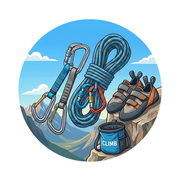
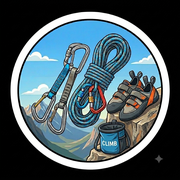
Icono nuevo + auto-sync MVC suspensiones a Tindeq 25mm

diff --git a/src/App.jsx b/src/App.jsx
@@ -89,7 +89,7 @@ export default function App(){
       {page==='cal'&&<CalP data={cal} save={d=>s('ct5_cal',d,setCal)} llocs={llocs}/>}
       {page==='ent'&&<EntP data={ent} save={d=>s('ct5_ent',d,setEnt)} allEx={allExercises}/>}
       {page==='roca'&&<RocP data={roca} save={d=>s('ct5_roca',d,setRoca)} sects={sects} vias={vias} lib={lib} saveLib={d=>s('ct5_lib',d,setLib)}/>}
-      {page==='susp'&&<SuspP data={susp} save={d=>s('ct5_susp',d,setSusp)} t25={t25} cal={cal} ent={ent} allEx={allExercises}/>}
+      {page==='susp'&&<SuspP data={susp} save={d=>s('ct5_susp',d,setSusp)} t25={t25} st25={d=>s('ct5_t25',d,setT25)} cal={cal} ent={ent} allEx={allExercises}/>}
       {page==='cfw'&&<CFWP data={cfw} save={d=>s('ct5_cfw',d,setCfw)} tp={tp}/>}
       {page==='lib'&&<LibP data={lib} save={d=>s('ct5_lib',d,setLib)} sects={sects}/>}
       {page==='tindeq'&&<TqP t25={t25} treg={treg} st25={d=>s('ct5_t25',d,setT25)} streg={d=>s('ct5_treg',d,setTreg)}/>}
@@ -183,13 +183,13 @@ function Dash({cal,ent,roca,lib,dp,t25,treg,tp,susp}){
 }
 
 /* ───────── SUSPENSIONES BERGUA ───────── */
-function SuspP({data,save,t25,cal,ent,allEx}){
+function SuspP({data,save,t25,st25,cal,ent,allEx}){
   const[show,setShow]=useState(false);const[eid,setEid]=useState(null);
   const mvcL=useMemo(()=>lastMVC(t25,'esq'),[t25]);
   const mvcR=useMemo(()=>lastMVC(t25,'dre'),[t25]);
   const blank=()=>({fecha:td(),edge:25,intensidad:75,series_prog:8,reps:4,work:8,pause:2,
     mvc_l:mvcL?mvcL.value:'',mvc_r:mvcR?mvcR.value:'',
-    series_data:[],hr_avg:'',calorias:'',fatiga_ini:1,fatiga_fin:3,obs:''});
+    series_data:[],hr_avg:'',calorias:'',fatiga_ini:1,fatiga_fin:3,obs:'',syncTindeq:true});
   const[form,setForm]=useState(blank());
   const sorted=useMemo(()=>[...data].sort((a,b)=>(b.fecha||'').localeCompare(a.fecha||'')),[data]);
   const tgtL=targetLoad(Number(form.mvc_l),Number(form.intensidad));
@@ -204,7 +204,9 @@ function SuspP({data,save,t25,cal,ent,allEx}){
   useEffect(()=>{ensureSeries()},[form.series_prog]);
   const toggleSet=i=>{const sd=[...form.series_data];sd[i]={...sd[i],done:!sd[i].done};setForm({...form,series_data:sd})};
   const setPeak=(i,v)=>{const sd=[...form.series_data];sd[i]={...sd[i],peak:v};setForm({...form,series_data:sd})};
-  const sub=()=>{const e={...form,completed,loss};if(eid)save(data.map(r=>r.id===eid?{...e,id:eid}:r));else save([...data,{...e,id:xi()}]);setShow(false);setEid(null);setForm(blank())};
+  const sub=()=>{const e={...form,completed,loss};if(eid)save(data.map(r=>r.id===eid?{...e,id:eid}:r));else save([...data,{...e,id:xi()}]);
+    if(form.syncTindeq&&form.mvc_l&&form.mvc_r&&st25){const exists=t25.some(r=>r.fecha===form.fecha);if(!exists){st25([...t25,{fecha:form.fecha,mm:25,esq:Number(form.mvc_l),dre:Number(form.mvc_r),id:xi(),src:'susp'}])}}
+    setShow(false);setEid(null);setForm(blank())};
   const open=()=>{setEid(null);setForm(blank());setShow(true)};
   const edit=r=>{setForm({...blank(),...r,series_data:r.series_data||[]});setEid(r.id);setShow(true)};
 
@@ -226,6 +228,7 @@ function SuspP({data,save,t25,cal,ent,allEx}){
           {mvcR&&<span className={`mvc-age ${mvcR.daysOld>7?'stale':''}`}>{mvcR.daysOld}d</span>}
         </div>
         {((mvcL&&mvcL.daysOld>7)||(mvcR&&mvcR.daysOld>7))&&<div className="mvc-warn">⚠ MVC con más de 7 días. Mide en el Tindeq antes de empezar.</div>}
+        <label className="sync-toggle"><input type="checkbox" checked={!!form.syncTindeq} onChange={e=>setForm({...form,syncTindeq:e.target.checked})}/> Guardar este MVC también como test 25mm en Tindeq</label>
       </div>
 
       <div className="row-2"><F label="Edge (mm)" value={form.edge} onChange={v=>setForm({...form,edge:v})} type="number"/><F label="Intensidad %" value={form.intensidad} onChange={v=>setForm({...form,intensidad:v})} type="number"/></div>

diff --git a/src/styles.js b/src/styles.js
@@ -89,5 +89,6 @@ export const CSS=`@import url('https://fonts.googleapis.com/css2?family=DM+Sans:
 .cfw-n{font-size:10px;color:#6B5F52;min-width:18px;text-align:center}
 .cfw-result{display:flex;gap:10px;margin:12px 0;background:#E8A83812;border:1px solid #E8A83844;border-radius:10px;padding:12px}
 .cfw-result>div{flex:1;text-align:center}.cfw-rl{display:block;font-size:10px;color:#8B7D6B;text-transform:uppercase}.cfw-rv{font-size:16px;font-weight:700;color:#E8A838}
+.sync-toggle{display:flex;align-items:center;gap:8px;font-size:12px;color:#8B7D6B;margin-top:10px;cursor:pointer}.sync-toggle input{width:18px;height:18px;accent-color:#E8A838}
 @media(min-width:600px){.stat-grid{grid-template-columns:repeat(4,1fr)}.content{padding:20px 24px 80px}.m-overlay{align-items:center}.m-box{border-radius:20px;max-height:85vh}.more-menu{border-radius:20px;max-width:400px;margin-bottom:100px}.info-modal{margin:auto}}
 `;
